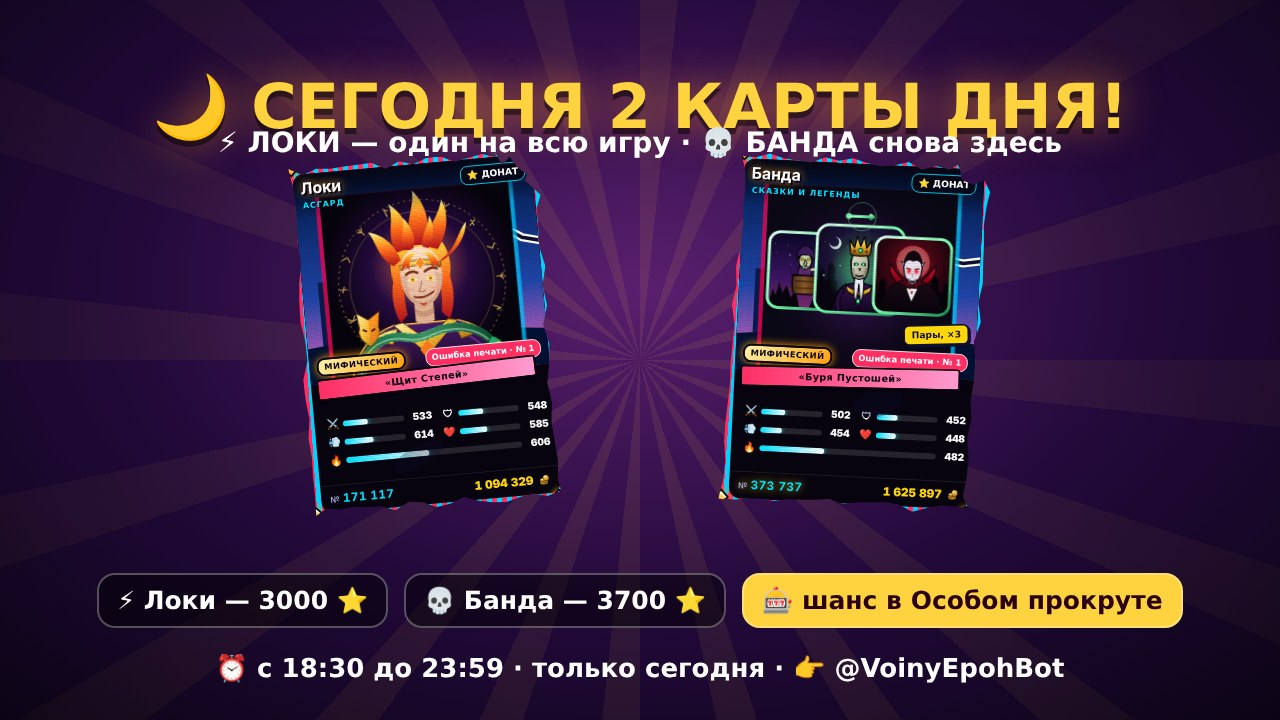
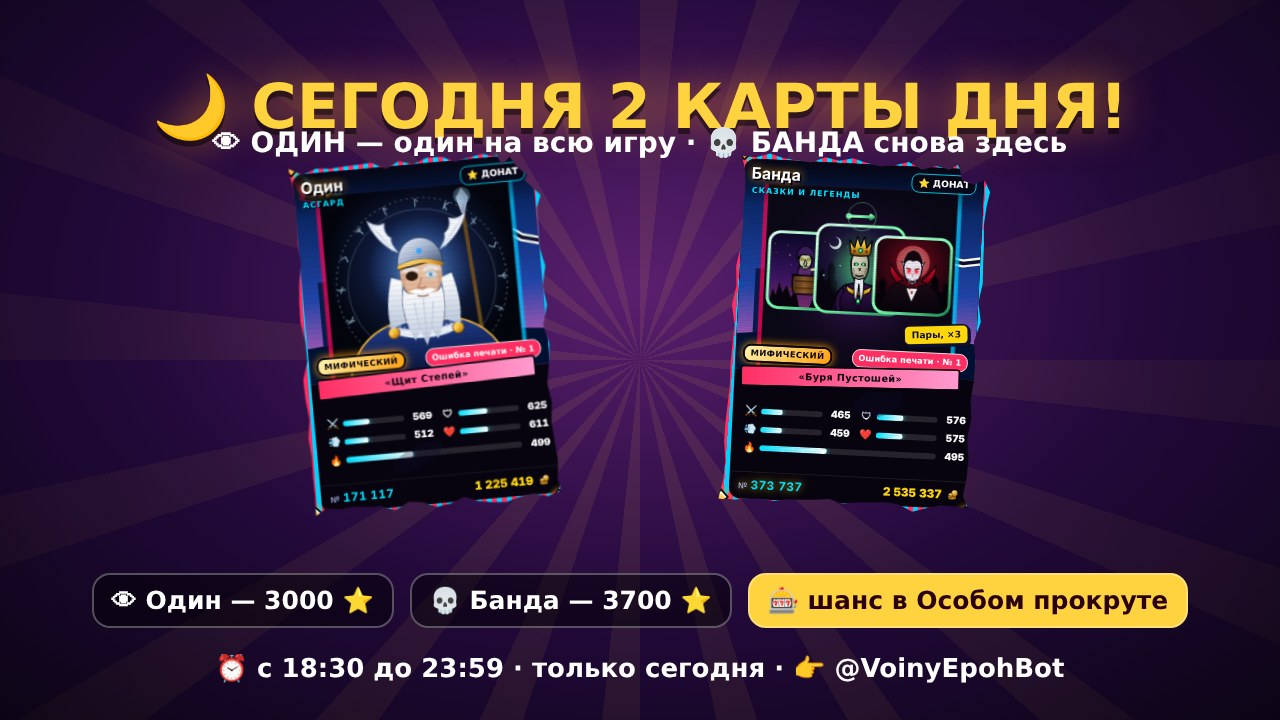
Карта дня 17.11: Один вместо Локи (новый анимированный арт: крылатый шлем, Гунгнир в молниях, вороны)
Claude-Session: https://claude.ai/code/session_01WBNLLAZ4HxPKvodtiyTWHg

diff --git a/gems.js b/gems.js
@@ -622,79 +622,59 @@ function huntCheck(){const H=S&&S.hunt,old=$("hunt-x");if(!H||!H.code){if(old)ol
     $("hunt-go").onclick=()=>{closeModal();promoOpen();const i=$("pr-in");if(i){i.value=H.code;i.focus()}}};
   sec.style.position=sec.style.position||"relative";sec.appendChild(b)}
 setInterval(()=>{try{huntCheck()}catch(e){}},1500);
-/* ⚡ Карта дня 17.11: «Локи» — бог обмана. Огненные волосы, змей Ёрмунганд вокруг плеч, маска-лис, иллюзии-двойники */
-DETAILED["Локи"]=id=>{const u="lk"+String(id).replace(/[^a-z0-9_]/gi,""),R='repeatCount="indefinite"';
- let runes="";for(let i=0;i<16;i++){const a=i*22.5;runes+='<path transform="rotate('+a+' 100 100) translate(100 17)" d="'+["M0 -4V4M0 -4L3 -1","M-2 -4V4M-2 0L2 -4M-2 0L2 4","M0 -4V4M-3 -1L3 1","M-2 -4L2 0L-2 4","M0 -4V4M0 0L3 -3M0 0L-3 -3"][i%5]+'" stroke="#ffcf5a" stroke-width="1.2" fill="none" stroke-linecap="round"/>'}
- let sp="";for(let i=0;i<14;i++){const x=12+((i*53)%176),d=(2.2+(i%5)*.5).toFixed(1),b=((i*.37)%2).toFixed(2);sp+='<circle cx="'+x+'" cy="200" r="'+(i%3?1.2:2)+'" fill="'+(i%2?"#ffd36a":"#b98cff")+'"><animate attributeName="cy" values="205;-5" dur="'+d+'s" begin="-'+b+'s" '+R+'/><animate attributeName="opacity" values="0;1;0" dur="'+d+'s" begin="-'+b+'s" '+R+'/></circle>'}
- const fig='<g id="'+u+'f">'+
-  /* плащ и плечи */
-  '<circle cx="100" cy="80" r="52" fill="url(#'+u+'au2)"><animate attributeName="r" values="48;56;48" dur="2.4s" '+R+'/></circle>'+
-  '<path d="M18 200 C22 168 40 150 66 142 L134 142 C160 150 178 168 182 200Z" fill="url(#'+u+'cl)" stroke="#ffc23a" stroke-width="1.6"/>'+
-  '<path d="M30 200 C34 176 50 160 70 152 M170 200 C166 176 150 160 130 152" stroke="#7a3aa8" stroke-width="2" fill="none" opacity=".7"/>'+
-  '<path d="M66 142 L100 176 L134 142 L124 140 L100 160 L76 140Z" fill="url(#'+u+'au)" stroke="#5a3a08" stroke-width="1"/>'+
-  '<path d="M100 160 L92 170 L100 182 L108 170Z" fill="#ff7a1a"><animate attributeName="fill" values="#ff7a1a;#ffe08a;#ff7a1a" dur="1.6s" '+R+'/></path>'+
-  '<path d="M44 154 Q56 146 70 146 L64 162 Q52 160 44 154Z M156 154 Q144 146 130 146 L136 162 Q148 160 156 154Z" fill="url(#'+u+'au)" stroke="#5a3a08" stroke-width="1"/>'+
-  /* шея */
-  '<path d="M90 118 L90 140 Q100 146 110 140 L110 118Z" fill="#e3b394"/><path d="M90 126 Q100 134 110 126 L110 132 Q100 140 90 132Z" fill="#b98466" opacity=".6"/>'+
-  /* волосы сзади — пламя */
-  '<g><path d="M70 96 C64 70 76 46 100 44 C124 46 136 70 130 96 C134 112 132 128 126 140 L118 132 C120 120 120 108 118 100 L82 100 C80 108 80 120 82 132 L74 140 C68 128 66 112 70 96Z" fill="url(#'+u+'fl)"/></g>'+
-  /* языки пламени над головой */
-  ['M76 66 C66 46 78 30 72 14 C88 26 94 44 90 62Z','M92 60 C86 36 100 20 98 2 C114 20 114 42 108 60Z','M108 62 C110 42 124 32 128 14 C136 34 130 52 120 66Z','M72 80 C56 70 56 52 48 42 C66 46 76 60 80 74Z','M124 76 C140 66 142 50 152 40 C150 58 138 72 120 80Z','M84 64 C80 50 88 42 86 30 C96 42 98 54 94 64Z','M104 62 C104 48 112 42 114 30 C120 44 116 56 110 64Z'].map((d,i)=>'<path d="'+d+'" fill="url(#'+u+'fl)"><animateTransform attributeName="transform" type="scale" additive="sum" values="1 1;1 '+(1.06+i*.02)+';1 .96;1 1" dur="'+(.9+i*.17).toFixed(2)+'s" '+R+'/></path>').join("")+
-  /* лицо */
-  '<path d="M78 92 C78 72 88 62 100 62 C112 62 122 72 122 92 C122 108 114 122 100 126 C86 122 78 108 78 92Z" fill="url(#'+u+'sk)"/>'+
-  '<path d="M78 92 C78 104 82 114 88 120 C84 108 84 98 86 88Z M122 92 C122 104 118 114 112 120 C116 108 116 98 114 88Z" fill="#c9957a" opacity=".45"/>'+
-  '<ellipse cx="87" cy="106" rx="4" ry="2" fill="#ff8a7a" opacity=".35"/><ellipse cx="113" cy="106" rx="4" ry="2" fill="#ff8a7a" opacity=".35"/>'+
-  '<path d="M100 126 C90 122 84 114 82 106 C88 116 94 120 100 121 C106 120 112 116 118 106 C116 114 110 122 100 126Z" fill="#c9957a" opacity=".6"/>'+
-  /* обруч с камнем */
-  '<path d="M78 80 Q100 70 122 80 L121 85 Q100 76 79 85Z" fill="url(#'+u+'au)" stroke="#5a3a08" stroke-width=".8"/>'+
-  '<path d="M100 72 L95 79 L100 86 L105 79Z" fill="#ff8a1f" stroke="#fff3c4" stroke-width=".8"><animate attributeName="fill" values="#ff8a1f;#fff3a0;#ff8a1f" dur="1.2s" '+R+'/></path>'+
-  /* чёлка пламенем на лоб */
-  '<path d="M80 86 C80 72 90 66 100 66 C92 70 88 76 88 86 C86 80 84 80 80 86Z M120 86 C120 72 110 66 100 66 C108 70 112 76 112 86 C114 80 116 80 120 86Z" fill="url(#'+u+'fl)"/>'+
-  /* брови — хитро */
-  '<path d="M84 90 Q90 85 96 89" stroke="#7a2a10" stroke-width="2.6" fill="none" stroke-linecap="round"/><path d="M104 88 Q111 83 117 86" stroke="#7a2a10" stroke-width="2.6" fill="none" stroke-linecap="round"/>'+
-  /* глаза */
-  '<g><path d="M85 96 Q90 92 96 96 Q90 99 85 96Z M104 96 Q110 92 115 96 Q110 99 104 96Z" fill="#fff8ec"/>'+
-  '<circle cx="90.5" cy="95.8" r="2.3" fill="#ffb21a"/><circle cx="109.5" cy="95.8" r="2.3" fill="#ffb21a"/><circle cx="90.5" cy="95.8" r="1" fill="#2a0a00"/><circle cx="109.5" cy="95.8" r="1" fill="#2a0a00"/>'+
-  '<circle cx="90.5" cy="95.8" r="4" fill="#ffcf5a" opacity=".35"><animate attributeName="opacity" values=".1;.6;.1" dur="2s" '+R+'/></circle><circle cx="109.5" cy="95.8" r="4" fill="#ffcf5a" opacity=".35"><animate attributeName="opacity" values=".1;.6;.1" dur="2s" '+R+'/></circle>'+
-  /* моргание */
-  '<rect x="83" y="91" width="34" height="0" fill="url(#'+u+'sk)"><animate attributeName="height" values="0;0;8;0;0" keyTimes="0;.9;.94;.98;1" dur="4.2s" '+R+'/></rect></g>'+
-  /* нос и ухмылка */
-  '<path d="M100 98 Q98 106 96 108 Q100 110 103 108" stroke="#b97f62" stroke-width="1.3" fill="none" stroke-linecap="round"/>'+
-  '<path d="M91 114 Q100 117 110 111" stroke="#7a2a20" stroke-width="2" fill="none" stroke-linecap="round"><animate attributeName="d" values="M91 114 Q100 117 110 111;M91 114 Q100 118 111 109;M91 114 Q100 117 110 111" dur="3s" '+R+'/></path>'+
-  '<path d="M110 111 l2 -1.5" stroke="#7a2a20" stroke-width="1.4" stroke-linecap="round"/>'+
-  /* бородка */
-  '<path d="M96 120 Q100 128 104 120 Q100 123 96 120Z" fill="#c2401a"/>'+
- '</g>';
+/* 👁 Карта дня 17.11: «Один» — Всеотец. Крылатый шлем, борода до пояса, один глаз горит, вороны Хугин и Мунин кружат, копьё Гунгнир в молниях */
+DETAILED["Один"]=id=>{const u="od"+String(id).replace(/[^a-z0-9_]/gi,""),R='repeatCount="indefinite"';
+ let runes="";for(let i=0;i<16;i++){runes+='<path transform="rotate('+(i*22.5)+' 100 100) translate(100 15)" d="'+["M0 -4V4M0 -4L3 -1","M-2 -4V4M-2 0L2 -4M-2 0L2 4","M0 -4V4M-3 -1L3 1","M-2 -4L2 0L-2 4","M0 -4V4M0 0L3 -3M0 0L-3 -3"][i%5]+'" stroke="#bfe8ff" stroke-width="1.2" fill="none" stroke-linecap="round"/>'}
+ let sp="";for(let i=0;i<14;i++){const x=12+((i*53)%176),d=(2.4+(i%5)*.5).toFixed(1),b=((i*.37)%2).toFixed(2);sp+='<circle cx="'+x+'" cy="200" r="'+(i%3?1.1:1.8)+'" fill="'+(i%2?"#e8f6ff":"#7ad0ff")+'"><animate attributeName="cy" values="205;-5" dur="'+d+'s" begin="-'+b+'s" '+R+'/><animate attributeName="opacity" values="0;1;0" dur="'+d+'s" begin="-'+b+'s" '+R+'/></circle>'}
+ const raven=(p,dur,beg,sc)=>'<g><animateMotion path="'+p+'" dur="'+dur+'s" begin="'+beg+'s" rotate="auto" '+R+'/><g transform="scale('+sc+')"><path d="M-8 0 Q-2 -3 6 -1 L10 0 L6 1 Q-2 3 -8 0Z" fill="#0d0f1c"/><circle cx="5" cy="-.6" r=".7" fill="#ffd23f"/>'+
+  '<path d="M-2 -1 Q-6 -12 -14 -14 Q-8 -6 -6 0Z" fill="#1a1d33"><animateTransform attributeName="transform" type="scale" values="1 1;1 -.6;1 1" dur=".5s" '+R+'/></path></g></g>';
  return '<svg viewBox="0 0 200 200" class="pt" aria-hidden="true"><defs>'+
-  '<radialGradient id="'+u+'bg" cx=".5" cy=".42"><stop offset="0" stop-color="#5a1f6e"/><stop offset=".55" stop-color="#22093a"/><stop offset="1" stop-color="#07030d"/></radialGradient>'+
-  '<linearGradient id="'+u+'fl" x1="0" y1="1" x2="0" y2="0"><stop offset="0" stop-color="#b3101e"/><stop offset=".45" stop-color="#ff6a1a"/><stop offset=".8" stop-color="#ffc93a"/><stop offset="1" stop-color="#fff6c0"/></linearGradient>'+
-  '<linearGradient id="'+u+'au" x1="0" y1="0" x2="1" y2="1"><stop offset="0" stop-color="#fff3b0"/><stop offset=".45" stop-color="#ffc23a"/><stop offset="1" stop-color="#a4660a"/></linearGradient>'+
-  '<linearGradient id="'+u+'cl" x1="0" y1="0" x2="0" y2="1"><stop offset="0" stop-color="#4a1a6a"/><stop offset="1" stop-color="#14061f"/></linearGradient>'+
-  '<radialGradient id="'+u+'au2"><stop offset="0" stop-color="#ffb21a" stop-opacity=".55"/><stop offset="1" stop-color="#ff6a1a" stop-opacity="0"/></radialGradient>'+
-  '<linearGradient id="'+u+'sk" x1="0" y1="0" x2="0" y2="1"><stop offset="0" stop-color="#ffe2cc"/><stop offset="1" stop-color="#e3b394"/></linearGradient>'+
-  '<linearGradient id="'+u+'sn" x1="0" y1="0" x2="1" y2="0"><stop offset="0" stop-color="#1fae6a"/><stop offset=".5" stop-color="#7dffb2"/><stop offset="1" stop-color="#0f6a40"/></linearGradient>'+
-  '<linearGradient id="'+u+'sh" x1="0" y1="0" x2="1" y2="0"><stop offset="0" stop-color="#fff" stop-opacity="0"/><stop offset=".5" stop-color="#fff" stop-opacity=".55"/><stop offset="1" stop-color="#fff" stop-opacity="0"/></linearGradient>'+
-  fig+'</defs>'+
-  '<rect width="200" height="200" fill="url(#'+u+'bg)"/>'+
-  /* круг рун */
-  '<g opacity=".75"><animateTransform attributeName="transform" type="rotate" values="0 100 100;360 100 100" dur="40s" '+R+'/><circle cx="100" cy="100" r="88" fill="none" stroke="#ffcf5a" stroke-width=".8" stroke-dasharray="2 4"/><circle cx="100" cy="100" r="76" fill="none" stroke="#ffcf5a" stroke-width=".6" opacity=".6"/>'+runes+'</g>'+
-  sp+
-  /* двойники-иллюзии */
-  '<use href="#'+u+'f" transform="translate(-46 16) scale(.84) translate(17 3)" opacity="0"><animate attributeName="opacity" values="0;.32;.08;.32;0" dur="3.4s" '+R+'/></use>'+
-  '<use href="#'+u+'f" transform="translate(64 16) scale(.84) translate(17 3)" opacity="0"><animate attributeName="opacity" values="0;.32;.08;.32;0" dur="3.4s" begin="-1.7s" '+R+'/></use>'+
-  /* главный Локи, чуть покачивается */
-  '<g><animateTransform attributeName="transform" type="translate" values="0 0;0 -2;0 0" dur="3s" '+R+'/><use href="#'+u+'f"/>'+
-  /* змей Ёрмунганд на плечах */
-  '<path d="M28 196 C30 160 58 150 80 156 C96 160 104 152 120 150 C142 147 160 156 168 168" fill="none" stroke="url(#'+u+'sn)" stroke-width="9" stroke-linecap="round"/>'+
-  '<path d="M28 196 C30 160 58 150 80 156 C96 160 104 152 120 150 C142 147 160 156 168 168" fill="none" stroke="#0a3a22" stroke-width="9" stroke-dasharray="1.2 4.8" stroke-linecap="round" opacity=".55"><animate attributeName="stroke-dashoffset" values="0;-12" dur="1.2s" '+R+'/></path>'+
-  '<path d="M28 194 C30 160 58 152 80 158 C96 162 104 154 120 152 C142 149 160 158 168 170" fill="none" stroke="#d8ffe6" stroke-width="1.6" opacity=".55"/>'+
-  '<g transform="translate(170 170) rotate(30)"><path d="M-6 -6 Q8 -8 12 0 Q8 8 -6 6Z" fill="#1fae6a" stroke="#0a3a22" stroke-width="1"/><circle cx="4" cy="-2.5" r="1.4" fill="#ffd23f"/>'+
-  '<path d="M12 0 l6 0 l3 -2 M18 0 l3 2" stroke="#ff2e63" stroke-width="1.2" fill="none" stroke-linecap="round"><animate attributeName="opacity" values="0;0;1;1;0" keyTimes="0;.6;.65;.8;.85" dur="2s" '+R+'/></path></g>'+
-  /* маска-лис в руке */
-  '<g transform="translate(40 150)"><g><animateTransform attributeName="transform" type="rotate" values="-12;10;-12" dur="2.6s" '+R+'/>'+
-  '<path d="M0 -16 L-12 -24 L-10 -8 Q-14 2 0 12 Q14 2 10 -8 L12 -24Z" fill="url(#'+u+'au)" stroke="#5a3a08" stroke-width="1"/><path d="M0 -16 L0 12 Q14 2 10 -8 L12 -24Z" fill="#ff7a1a" opacity=".55"/>'+
-  '<path d="M-6 -6 l3 1.5 M6 -6 l-3 1.5" stroke="#2a0a00" stroke-width="1.8" stroke-linecap="round"/></g></g>'+
+  '<radialGradient id="'+u+'bg" cx=".5" cy=".4"><stop offset="0" stop-color="#2a4a8a"/><stop offset=".55" stop-color="#0f1a3a"/><stop offset="1" stop-color="#03050d"/></radialGradient>'+
+  '<radialGradient id="'+u+'au"><stop offset="0" stop-color="#9fe0ff" stop-opacity=".55"/><stop offset="1" stop-color="#3a7aff" stop-opacity="0"/></radialGradient>'+
+  '<linearGradient id="'+u+'ag" x1="0" y1="0" x2="1" y2="1"><stop offset="0" stop-color="#fff3b0"/><stop offset=".45" stop-color="#ffc23a"/><stop offset="1" stop-color="#9a5e08"/></linearGradient>'+
+  '<linearGradient id="'+u+'st" x1="0" y1="0" x2="1" y2="1"><stop offset="0" stop-color="#f4f8ff"/><stop offset=".5" stop-color="#a9b8d4"/><stop offset="1" stop-color="#4a5a7a"/></linearGradient>'+
+  '<linearGradient id="'+u+'bd" x1="0" y1="0" x2="0" y2="1"><stop offset="0" stop-color="#ffffff"/><stop offset="1" stop-color="#b9c6dc"/></linearGradient>'+
+  '<linearGradient id="'+u+'cl" x1="0" y1="0" x2="0" y2="1"><stop offset="0" stop-color="#1f3a8a"/><stop offset="1" stop-color="#0a1230"/></linearGradient>'+
+  '<linearGradient id="'+u+'sk" x1="0" y1="0" x2="0" y2="1"><stop offset="0" stop-color="#f6d6bf"/><stop offset="1" stop-color="#d9a98a"/></linearGradient>'+
+  '<linearGradient id="'+u+'sh" x1="0" y1="0" x2="1" y2="0"><stop offset="0" stop-color="#fff" stop-opacity="0"/><stop offset=".5" stop-color="#fff" stop-opacity=".5"/><stop offset="1" stop-color="#fff" stop-opacity="0"/></linearGradient>'+
+  '</defs><rect width="200" height="200" fill="url(#'+u+'bg)"/>'+
+  '<g opacity=".7"><animateTransform attributeName="transform" type="rotate" values="0 100 100;-360 100 100" dur="46s" '+R+'/><circle cx="100" cy="100" r="90" fill="none" stroke="#bfe8ff" stroke-width=".8" stroke-dasharray="2 4"/><circle cx="100" cy="100" r="78" fill="none" stroke="#bfe8ff" stroke-width=".6" opacity=".6"/>'+runes+'</g>'+sp+
+  '<circle cx="100" cy="86" r="56" fill="url(#'+u+'au)"><animate attributeName="r" values="50;60;50" dur="3s" '+R+'/></circle>'+
+  /* копьё Гунгнир с молниями */
+  '<g><path d="M162 200 L150 34" stroke="#6a4a20" stroke-width="4" stroke-linecap="round"/><path d="M150 34 L144 14 L150 4 L156 14Z" fill="url(#'+u+'st)" stroke="#e8f6ff" stroke-width=".8"/>'+
+  '<circle cx="150" cy="12" r="9" fill="#9fe0ff" opacity=".4"><animate attributeName="opacity" values=".15;.7;.15" dur="1.3s" '+R+'/></circle>'+
+  '<path d="M150 14 l-8 8 l5 1 l-7 9" stroke="#e8f6ff" stroke-width="1.4" fill="none" opacity="0"><animate attributeName="opacity" values="0;0;1;0;0" keyTimes="0;.5;.55;.62;1" dur="2.2s" '+R+'/></path>'+
+  '<path d="M152 14 l9 7 l-5 1 l7 8" stroke="#9fe0ff" stroke-width="1.4" fill="none" opacity="0"><animate attributeName="opacity" values="0;0;1;0;0" keyTimes="0;.2;.25;.32;1" dur="2.2s" '+R+'/></path></g>'+
+  '<g><animateTransform attributeName="transform" type="translate" values="0 0;0 -2;0 0" dur="3.2s" '+R+'/>'+
+  /* плащ */
+  '<path d="M16 200 C20 166 40 148 66 140 L134 140 C160 148 180 166 184 200Z" fill="url(#'+u+'cl)" stroke="#ffc23a" stroke-width="1.6"/>'+
+  '<path d="M62 142 Q100 156 138 142 L132 152 Q100 164 68 152Z" fill="#e9eef7"/><path d="M62 142 Q100 156 138 142" stroke="#c5cee0" stroke-width="5" fill="none" stroke-dasharray="2 3" opacity=".6"/>'+
+  '<circle cx="66" cy="150" r="6" fill="url(#'+u+'ag)" stroke="#5a3a08"/><circle cx="134" cy="150" r="6" fill="url(#'+u+'ag)" stroke="#5a3a08"/>'+
+  /* длинные седые волосы */
+  '<path d="M68 92 C62 112 60 132 64 146 L80 140 C76 124 78 108 80 96Z M132 92 C138 112 140 132 136 146 L120 140 C124 124 122 108 120 96Z" fill="url(#'+u+'bd)"/>'+
+  /* лицо */
+  '<path d="M78 90 C78 72 88 64 100 64 C112 64 122 72 122 90 C122 104 114 116 100 118 C86 116 78 104 78 90Z" fill="url(#'+u+'sk)"/>'+
+  '<path d="M78 90 C78 100 80 108 86 114 C82 104 82 96 84 88Z M122 90 C122 100 120 108 114 114 C118 104 118 96 116 88Z" fill="#b98466" opacity=".4"/>'+
+  /* брови и глаза: левый — повязка, правый горит */
+  '<path d="M83 86 Q90 82 96 86" stroke="#e9eef7" stroke-width="3" fill="none" stroke-linecap="round"/><path d="M104 86 Q110 82 117 86" stroke="#e9eef7" stroke-width="3" fill="none" stroke-linecap="round"/>'+
+  '<path d="M76 84 L124 76" stroke="#2a1a10" stroke-width="1.6"/><ellipse cx="90" cy="92" rx="6.5" ry="5" fill="#2a1a10"/>'+
+  '<path d="M104 92 Q110 88 116 92 Q110 95 104 92Z" fill="#fff"/><circle cx="110" cy="91.8" r="2.3" fill="#3aa8ff"/><circle cx="110" cy="91.8" r="1" fill="#04112a"/>'+
+  '<circle cx="110" cy="91.8" r="6" fill="#9fe0ff" opacity=".3"><animate attributeName="opacity" values=".1;.7;.1" dur="2.2s" '+R+'/><animate attributeName="r" values="4;8;4" dur="2.2s" '+R+'/></circle>'+
+  '<rect x="103" y="87" width="15" height="0" fill="url(#'+u+'sk)"><animate attributeName="height" values="0;0;8;0;0" keyTimes="0;.9;.94;.98;1" dur="5s" '+R+'/></rect>'+
+  '<path d="M100 94 Q98 102 95 104 Q100 106 104 104" stroke="#b97f62" stroke-width="1.3" fill="none" stroke-linecap="round"/>'+
+  /* усы и борода до груди, чуть колышется */
+  '<g><animateTransform attributeName="transform" type="skewX" values="0;1.5;0;-1.5;0" dur="4s" '+R+'/>'+
+  '<path d="M80 104 C82 112 90 112 100 108 C110 112 118 112 120 104 C124 120 122 140 112 160 L106 150 L100 166 L94 150 L88 160 C78 140 76 120 80 104Z" fill="url(#'+u+'bd)"/>'+
+  '<path d="M90 120 Q92 138 94 150 M100 116 V160 M110 120 Q108 138 106 150" stroke="#b9c6dc" stroke-width="1" fill="none"/>'+
+  '<path d="M86 108 Q93 104 100 108 Q107 104 114 108 Q107 112 100 110 Q93 112 86 108Z" fill="#fff"/><path d="M94 113 Q100 115 106 113" stroke="#8a5a4a" stroke-width="1.4" fill="none"/></g>'+
+  /* крылатый шлем, крылья взмахивают */
+  '<path d="M76 80 C76 62 88 52 100 52 C112 52 124 62 124 80 Q100 70 76 80Z" fill="url(#'+u+'st)" stroke="#2a3a5a" stroke-width="1"/>'+
+  '<path d="M76 80 Q100 70 124 80 L124 84 Q100 74 76 84Z" fill="url(#'+u+'ag)"/><path d="M100 52 V76" stroke="url(#'+u+'ag)" stroke-width="3"/>'+
+  '<circle cx="100" cy="66" r="3" fill="#3aa8ff"><animate attributeName="fill" values="#3aa8ff;#e8f6ff;#3aa8ff" dur="1.6s" '+R+'/></circle>'+
+  ['<g transform="translate(78 66)"><g><animateTransform attributeName="transform" type="rotate" values="0;-14;0" dur="1.6s" '+R+'/><path d="M0 0 C-14 -6 -26 -22 -30 -36 C-22 -30 -18 -30 -12 -32 C-14 -24 -10 -18 -6 -16 C-8 -12 -4 -6 0 0Z" fill="#f4f8ff" stroke="#9fb0cc" stroke-width=".8"/><path d="M-4 -4 L-20 -24 M-6 -2 L-26 -32" stroke="#c5cee0" stroke-width=".8"/></g></g>',
+   '<g transform="translate(122 66) scale(-1 1)"><g><animateTransform attributeName="transform" type="rotate" values="0;-14;0" dur="1.6s" '+R+'/><path d="M0 0 C-14 -6 -26 -22 -30 -36 C-22 -30 -18 -30 -12 -32 C-14 -24 -10 -18 -6 -16 C-8 -12 -4 -6 0 0Z" fill="#f4f8ff" stroke="#9fb0cc" stroke-width=".8"/><path d="M-4 -4 L-20 -24 M-6 -2 L-26 -32" stroke="#c5cee0" stroke-width=".8"/></g></g>'].join("")+
   '</g>'+
-  /* блик */
-  '<rect x="-120" y="0" width="80" height="200" fill="url(#'+u+'sh)" transform="skewX(-18)"><animate attributeName="x" values="-120;-120;260" keyTimes="0;.7;1" dur="4s" '+R+'/></rect>'+
+  /* вороны Хугин и Мунин */
+  raven("M20 60 C40 20 160 20 180 60 C160 100 40 100 20 60Z",7,"0",2.2)+raven("M180 40 C150 10 50 10 20 40 C50 80 150 80 180 40Z",9,"-3",1.8)+
+  '<rect x="-120" y="0" width="80" height="200" fill="url(#'+u+'sh)" transform="skewX(-18)"><animate attributeName="x" values="-120;-120;260" keyTimes="0;.7;1" dur="4.5s" '+R+'/></rect>'+
   '</svg>'};

diff --git a/server/server.js b/server/server.js
@@ -1969,8 +1969,8 @@ const DC_PLAN={"2026-11-14":[{n:"Кощей",e:"Сказки Руси",d:"Бес
   /* 15.11 21:00–01:00 (Минск): шанс в Особом прокруте ПОСТОЯННЫЙ (ch), от времени не зависит — чтобы не было «дождаться конца и выбить» */
   "2026-11-15":[{n:"Наполеон",e:"Франция",d:"Император Франции. Ростом невелик, зато его пушки били дальше всех — смотри, ядро уже летит!",o:{p:[7,7,7,7,7],sn:"515151",sn2:"252525"},from:18,to:22,stars:2500,ch:.002},
   {n:"Банда",e:"Сказки и легенды",d:"Баба Яга, Кощей и Дракула собрались вместе. Яга кружит в ступе, Кощей крутит свою иглу, а Дракула так и норовит кого-нибудь укусить.",o:{p:[7,7,7,7,7],sn:"353535",sn2:"717171"},from:18,to:22,stars:3500,ch:.001}],
-  /* 17.11 18:30–23:59 (Минск) = 15.5–20.98 UTC. Первые 3 часа (до 21:30) выбить нельзя (lock), потом шанс мизерный. Локи — один экземпляр на всю игру (one) */
-  "2026-11-17":[{n:"Локи",e:"Асгард",d:"Бог обмана. Огонь вместо волос, змей Ёрмунганд на плечах и маска лиса в руке. Моргнёшь — и рядом уже двое Локи. Какой из них настоящий?",o:{p:[8,8,8,8,8],sn:"171117",sn2:"666000"},from:15.5,to:20.98,stars:3000,ch:.0004,lock:3,one:1},
+  /* 17.11 18:30–23:59 (Минск) = 15.5–20.98 UTC. Первые 3 часа (до 21:30) выбить нельзя (lock), потом шанс мизерный. Один — один экземпляр на всю игру (one) */
+  "2026-11-17":[{n:"Один",e:"Асгард",d:"Всеотец богов. Отдал глаз за мудрость, а вороны Хугин и Мунин каждое утро приносят ему вести со всего мира. Копьё Гунгнир никогда не промахивается.",o:{p:[9,8,8,8,9],sn:"171117",sn2:"111000"},from:15.5,to:20.98,stars:3000,ch:.0004,lock:3,one:1},
   {n:"Банда",e:"Сказки и легенды",d:"Баба Яга, Кощей и Дракула снова вместе. Яга кружит в ступе, Кощей крутит свою иглу, а Дракула так и норовит кого-нибудь укусить.",o:{p:[7,7,7,7,7],sn:"373737",sn2:"474747"},from:15.5,to:20.98,stars:3700,ch:.0006,lock:3}]};
 let DCS=[];
 async function xhLoad(env,force){if(!force&&Date.now()-XHT<15e3)return;XHT=Date.now();try{XH=(await kvGet(env,"xh"))||{}}catch(e){XH={}}try{DC=await kvGet(env,"dc")}catch(e){DC=null}
@@ -3249,8 +3249,8 @@ async function blastTkTick(env){const now=Date.now();if(!BLAST_TK.on||btkBusy||n
 const FIRE30={id:"fire30_1711",on:false,photo:"assets/post-fire30.jpg",btn:"🔥 Поставить огонёк",url:"https://t.me/voinyepoh",
   chan:"🔥 30 ОГОНЬКОВ = ПРОМОКОД!\n\nНаберём 30 реакций под этим постом — и бот сам выложит сюда промокод на 🎴 10 прокруток + 💰 3 000 монет\n\nЖми 🔥 👇 Считаем!",
   dm:"🔥 Воин, в канале раздача!\n\nНаберём 30 огоньков под постом — и там сразу появится промокод на 🎴 10 прокруток + 💰 3 000 монет. Первые 50 активаций!\n\nЖми кнопку и ставь 🔥 👇"};
-const DCANN={id:"dc_ann_1711",on:true,photo:"assets/post-dc1711.jpg",btn:"🌙 Открыть игру",
-  chan:"🌙 СЕГОДНЯ ВЕЧЕРОМ — 2 КАРТЫ ДНЯ!\n\n⚡ ЛОКИ — бог обмана. Огонь вместо волос, змей Ёрмунганд на плечах и иллюзии-двойники. Карта ОДНА на всю игру — кто первый, того и Локи\n💀 БАНДА — Баба Яга, Кощей и Дракула снова вместе\n\n⭐ Локи — 3000 звёзд · Банда — 3700 звёзд\n🎰 Или испытай удачу в Особом прокруте — но шанс мизерный 😈\n\n⏰ Сегодня с 18:30 до 23:59. Только один вечер!\n\n👉 @VoinyEpohBot"};
+const DCANN={id:"dc_ann_1711o",on:true,photo:"assets/post-dc1711.jpg?o=1",btn:"🌙 Открыть игру",
+  chan:"🌙 СЕГОДНЯ ВЕЧЕРОМ — 2 КАРТЫ ДНЯ!\n\n👁 ОДИН — Всеотец богов. Крылатый шлем, копьё Гунгнир в молниях и два ворона над головой. Карта ОДНА на всю игру — кто первый, того и Один\n💀 БАНДА — Баба Яга, Кощей и Дракула снова вместе\n\n⭐ Один — 3000 звёзд · Банда — 3700 звёзд\n🎰 Или испытай удачу в Особом прокруте — но шанс мизерный 😈\n\n⏰ Сегодня с 18:30 до 23:59. Только один вечер!\n\n👉 @VoinyEpohBot"};
 let dcaBusy=false;async function dcAnnTick(env){if(!DCANN.on||dcaBusy||Date.now()>Date.UTC(2026,10,17,21,0))return;dcaBusy=true;try{await blastRun(env,DCANN)}finally{dcaBusy=false}}
 let f30Busy=false;async function fire30Tick(env){if(!FIRE30.on||f30Busy||Date.now()>FUN_UNTIL)return;f30Busy=true;try{await blastRun(env,FIRE30)}finally{f30Busy=false}}
 async function fire30React(env,R){if(!R||!R.chat||String(R.chat.username||"").toLowerCase()!==CHANNEL.slice(1))return;const k="blast:"+FIRE30.id,st=await kvGet(env,k);if(!st||!st.mid||R.message_id!==st.mid||st.rev)return;

diff --git a/server/worker.js b/server/worker.js
@@ -3436,8 +3436,8 @@ const DC_PLAN={"2026-11-14":[{n:"Кощей",e:"Сказки Руси",d:"Бес
   /* 15.11 21:00–01:00 (Минск): шанс в Особом прокруте ПОСТОЯННЫЙ (ch), от времени не зависит — чтобы не было «дождаться конца и выбить» */
   "2026-11-15":[{n:"Наполеон",e:"Франция",d:"Император Франции. Ростом невелик, зато его пушки били дальше всех — смотри, ядро уже летит!",o:{p:[7,7,7,7,7],sn:"515151",sn2:"252525"},from:18,to:22,stars:2500,ch:.002},
   {n:"Банда",e:"Сказки и легенды",d:"Баба Яга, Кощей и Дракула собрались вместе. Яга кружит в ступе, Кощей крутит свою иглу, а Дракула так и норовит кого-нибудь укусить.",o:{p:[7,7,7,7,7],sn:"353535",sn2:"717171"},from:18,to:22,stars:3500,ch:.001}],
-  /* 17.11 18:30–23:59 (Минск) = 15.5–20.98 UTC. Первые 3 часа (до 21:30) выбить нельзя (lock), потом шанс мизерный. Локи — один экземпляр на всю игру (one) */
-  "2026-11-17":[{n:"Локи",e:"Асгард",d:"Бог обмана. Огонь вместо волос, змей Ёрмунганд на плечах и маска лиса в руке. Моргнёшь — и рядом уже двое Локи. Какой из них настоящий?",o:{p:[8,8,8,8,8],sn:"171117",sn2:"666000"},from:15.5,to:20.98,stars:3000,ch:.0004,lock:3,one:1},
+  /* 17.11 18:30–23:59 (Минск) = 15.5–20.98 UTC. Первые 3 часа (до 21:30) выбить нельзя (lock), потом шанс мизерный. Один — один экземпляр на всю игру (one) */
+  "2026-11-17":[{n:"Один",e:"Асгард",d:"Всеотец богов. Отдал глаз за мудрость, а вороны Хугин и Мунин каждое утро приносят ему вести со всего мира. Копьё Гунгнир никогда не промахивается.",o:{p:[9,8,8,8,9],sn:"171117",sn2:"111000"},from:15.5,to:20.98,stars:3000,ch:.0004,lock:3,one:1},
   {n:"Банда",e:"Сказки и легенды",d:"Баба Яга, Кощей и Дракула снова вместе. Яга кружит в ступе, Кощей крутит свою иглу, а Дракула так и норовит кого-нибудь укусить.",o:{p:[7,7,7,7,7],sn:"373737",sn2:"474747"},from:15.5,to:20.98,stars:3700,ch:.0006,lock:3}]};
 let DCS=[];
 async function xhLoad(env,force){if(!force&&Date.now()-XHT<15e3)return;XHT=Date.now();try{XH=(await kvGet(env,"xh"))||{}}catch(e){XH={}}try{DC=await kvGet(env,"dc")}catch(e){DC=null}
@@ -4716,8 +4716,8 @@ async function blastTkTick(env){const now=Date.now();if(!BLAST_TK.on||btkBusy||n
 const FIRE30={id:"fire30_1711",on:false,photo:"assets/post-fire30.jpg",btn:"🔥 Поставить огонёк",url:"https://t.me/voinyepoh",
   chan:"🔥 30 ОГОНЬКОВ = ПРОМОКОД!\n\nНаберём 30 реакций под этим постом — и бот сам выложит сюда промокод на 🎴 10 прокруток + 💰 3 000 монет\n\nЖми 🔥 👇 Считаем!",
   dm:"🔥 Воин, в канале раздача!\n\nНаберём 30 огоньков под постом — и там сразу появится промокод на 🎴 10 прокруток + 💰 3 000 монет. Первые 50 активаций!\n\nЖми кнопку и ставь 🔥 👇"};
-const DCANN={id:"dc_ann_1711",on:true,photo:"assets/post-dc1711.jpg",btn:"🌙 Открыть игру",
-  chan:"🌙 СЕГОДНЯ ВЕЧЕРОМ — 2 КАРТЫ ДНЯ!\n\n⚡ ЛОКИ — бог обмана. Огонь вместо волос, змей Ёрмунганд на плечах и иллюзии-двойники. Карта ОДНА на всю игру — кто первый, того и Локи\n💀 БАНДА — Баба Яга, Кощей и Дракула снова вместе\n\n⭐ Локи — 3000 звёзд · Банда — 3700 звёзд\n🎰 Или испытай удачу в Особом прокруте — но шанс мизерный 😈\n\n⏰ Сегодня с 18:30 до 23:59. Только один вечер!\n\n👉 @VoinyEpohBot"};
+const DCANN={id:"dc_ann_1711o",on:true,photo:"assets/post-dc1711.jpg?o=1",btn:"🌙 Открыть игру",
+  chan:"🌙 СЕГОДНЯ ВЕЧЕРОМ — 2 КАРТЫ ДНЯ!\n\n👁 ОДИН — Всеотец богов. Крылатый шлем, копьё Гунгнир в молниях и два ворона над головой. Карта ОДНА на всю игру — кто первый, того и Один\n💀 БАНДА — Баба Яга, Кощей и Дракула снова вместе\n\n⭐ Один — 3000 звёзд · Банда — 3700 звёзд\n🎰 Или испытай удачу в Особом прокруте — но шанс мизерный 😈\n\n⏰ Сегодня с 18:30 до 23:59. Только один вечер!\n\n👉 @VoinyEpohBot"};
 let dcaBusy=false;async function dcAnnTick(env){if(!DCANN.on||dcaBusy||Date.now()>Date.UTC(2026,10,17,21,0))return;dcaBusy=true;try{await blastRun(env,DCANN)}finally{dcaBusy=false}}
 let f30Busy=false;async function fire30Tick(env){if(!FIRE30.on||f30Busy||Date.now()>FUN_UNTIL)return;f30Busy=true;try{await blastRun(env,FIRE30)}finally{f30Busy=false}}
 async function fire30React(env,R){if(!R||!R.chat||String(R.chat.username||"").toLowerCase()!==CHANNEL.slice(1))return;const k="blast:"+FIRE30.id,st=await kvGet(env,k);if(!st||!st.mid||R.message_id!==st.mid||st.rev)return;

diff --git a/index.html b/index.html
@@ -1,6 +1,6 @@
 <!doctype html>
 <html lang="ru">
-<head><meta name="app-ver" content="8dc15f6b65">
+<head><meta name="app-ver" content="857b9e8cee">
 <meta charset="utf-8">
 <meta http-equiv="Cache-Control" content="no-cache">
 <meta name="viewport" content="width=device-width,initial-scale=1,maximum-scale=1,user-scalable=no,viewport-fit=cover">
@@ -374,6 +374,6 @@
 <script src="ref.js?v=eb6bec8f"></script>
 <script src="tutor.js?v=78a8e670"></script>
 <script src="admin.js?v=7108744a"></script>
-<script src="gems.js?v=18f60c6f"></script>
+<script src="gems.js?v=e31c1e50"></script>
 </body>
 </html>
